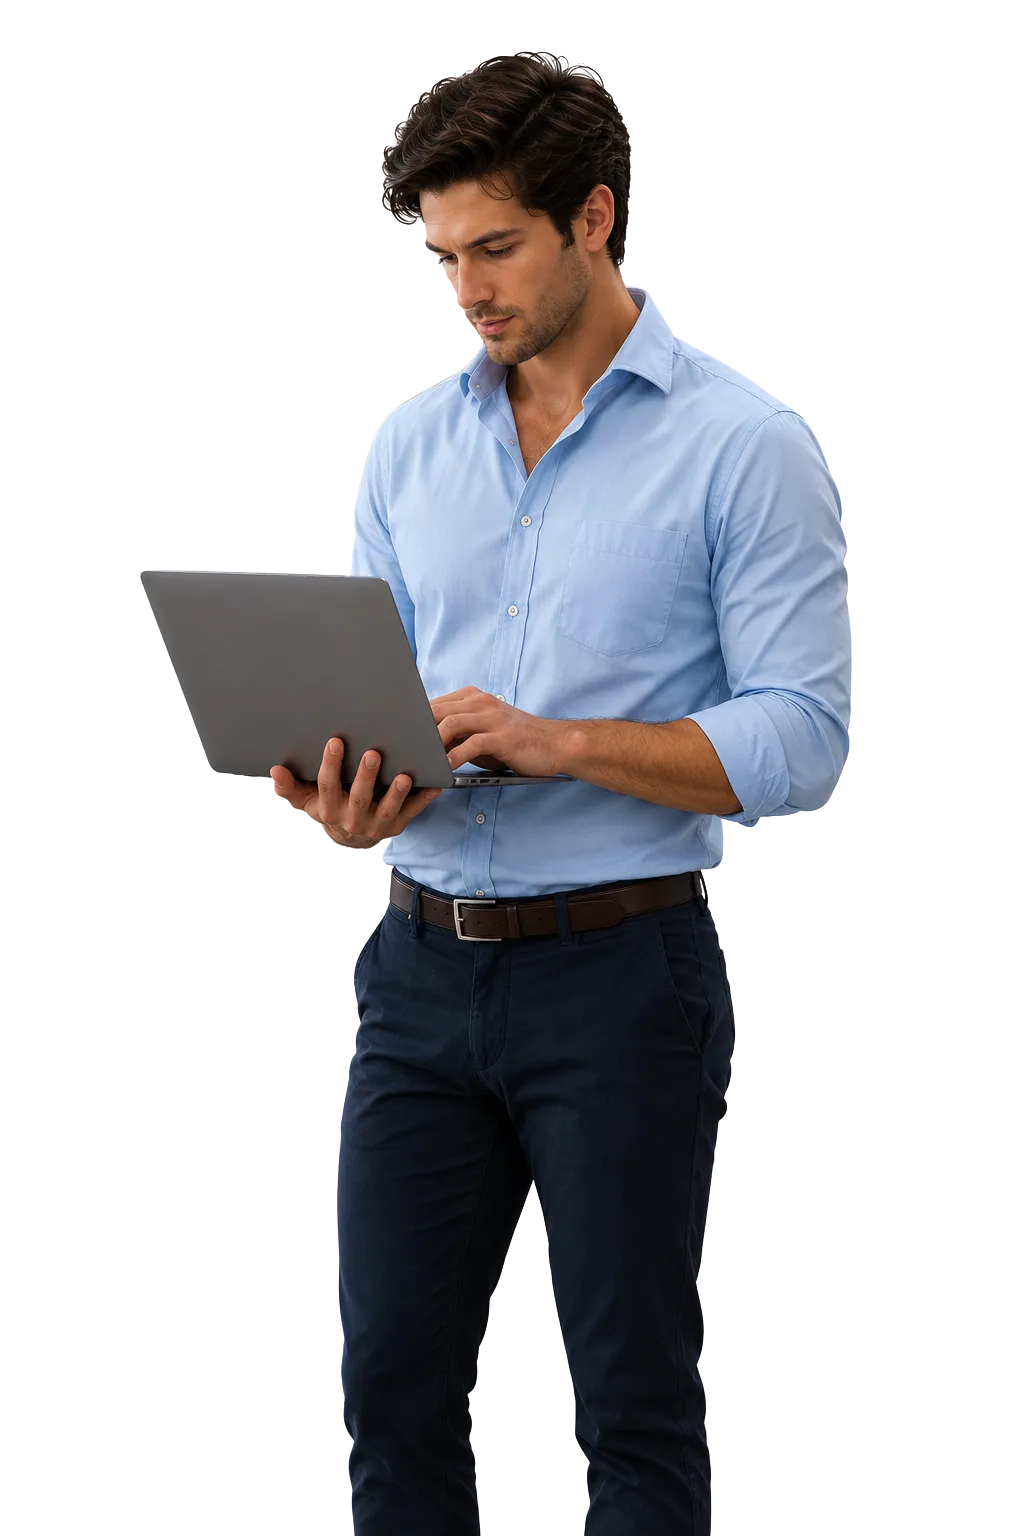
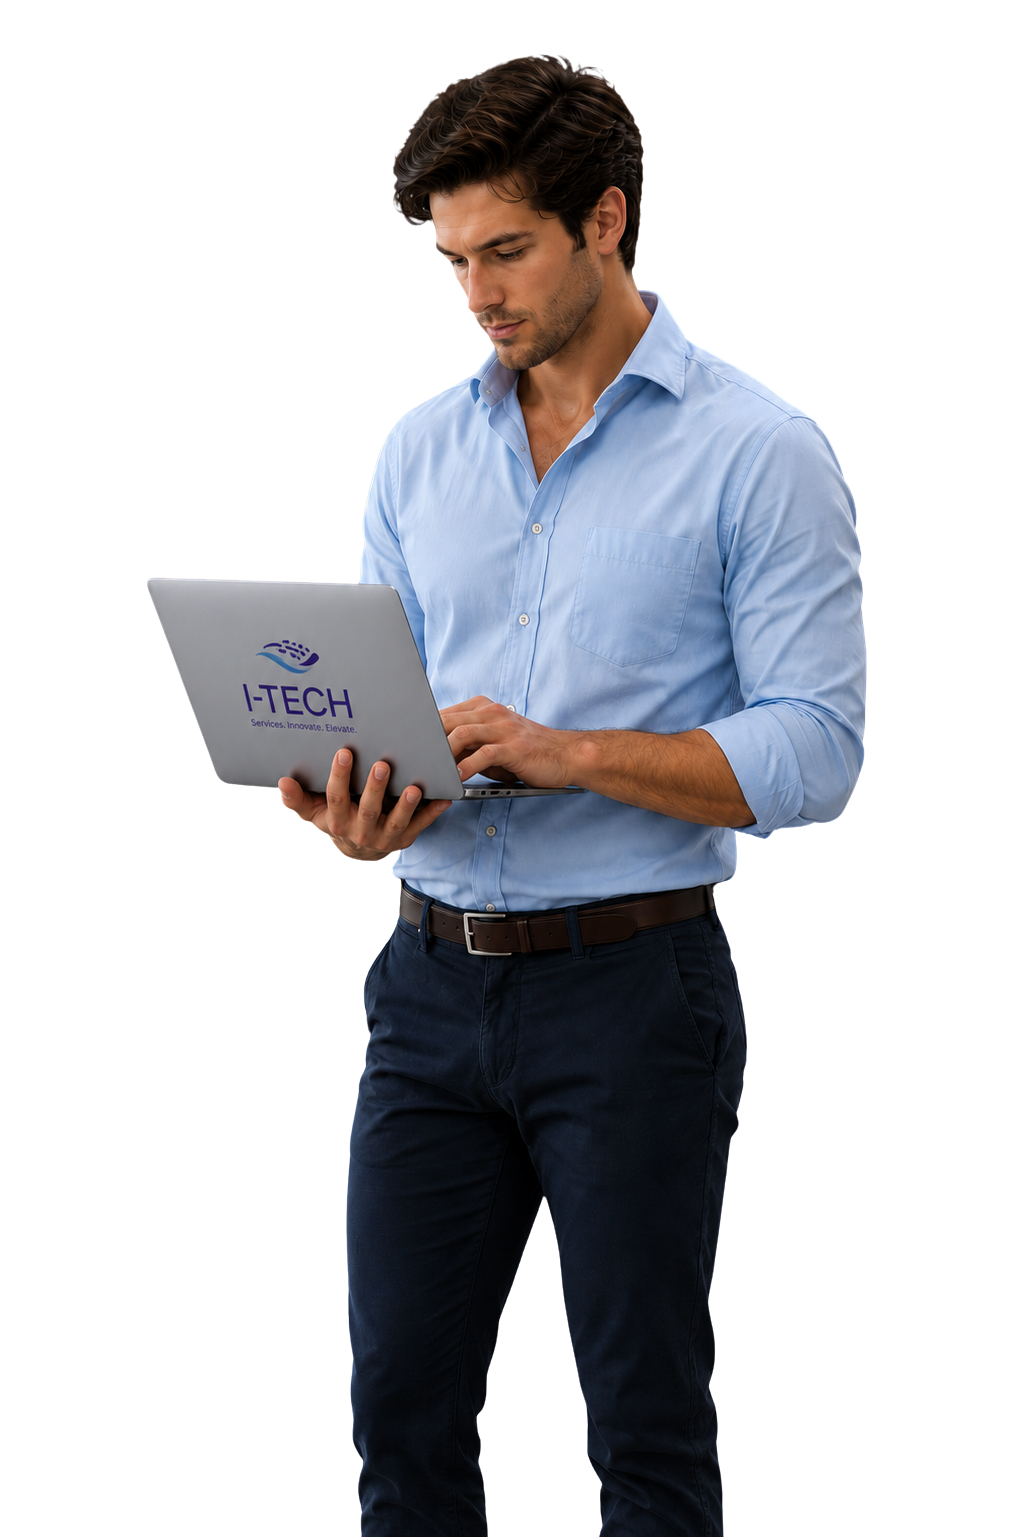
done

Changed region(s): [[0.1212, 0.0312, 0.8485, 1.0], [0.4545, 0.6875, 0.6061, 1.0]]

diff --git a/frontend/src/components/HeroSection.tsx b/frontend/src/components/HeroSection.tsx
@@ -92,7 +92,7 @@ export default function HeroSection() {
             <div style={{ position: "absolute", inset: 0, border: "2px dashed rgba(255,255,255,0.1)", borderRadius: "50%", transform: "scale(0.95)", pointerEvents: "none" }} />
             <div style={{ position: "absolute", inset: 0, border: "1px solid rgba(83, 80, 162,0.3)", borderRadius: "50%", transform: "scale(0.75)", pointerEvents: "none" }} />
 
-            <img src="/images/hero.png" alt="IT Expert" style={{ position: "absolute", top: "-20%", bottom: "0%", left: "50%", transform: "translateX(-50%)", height: "150%", width: "150%", objectFit: "contain", objectPosition: "bottom center", zIndex: 1, filter: "drop-shadow(0 20px 30px rgba(83, 80, 162,0.5))", pointerEvents: "none" }} />
+            <img src="/images/hero.webp" alt="IT Expert" style={{ position: "absolute", top: "-20%", bottom: "0%", left: "50%", transform: "translateX(-50%)", height: "150%", width: "150%", objectFit: "contain", objectPosition: "bottom center", zIndex: 1, filter: "drop-shadow(0 20px 30px rgba(83, 80, 162,0.5))", pointerEvents: "none" }} />
 
             {/* Floating cards */}
             <div className="floating-card-1">
